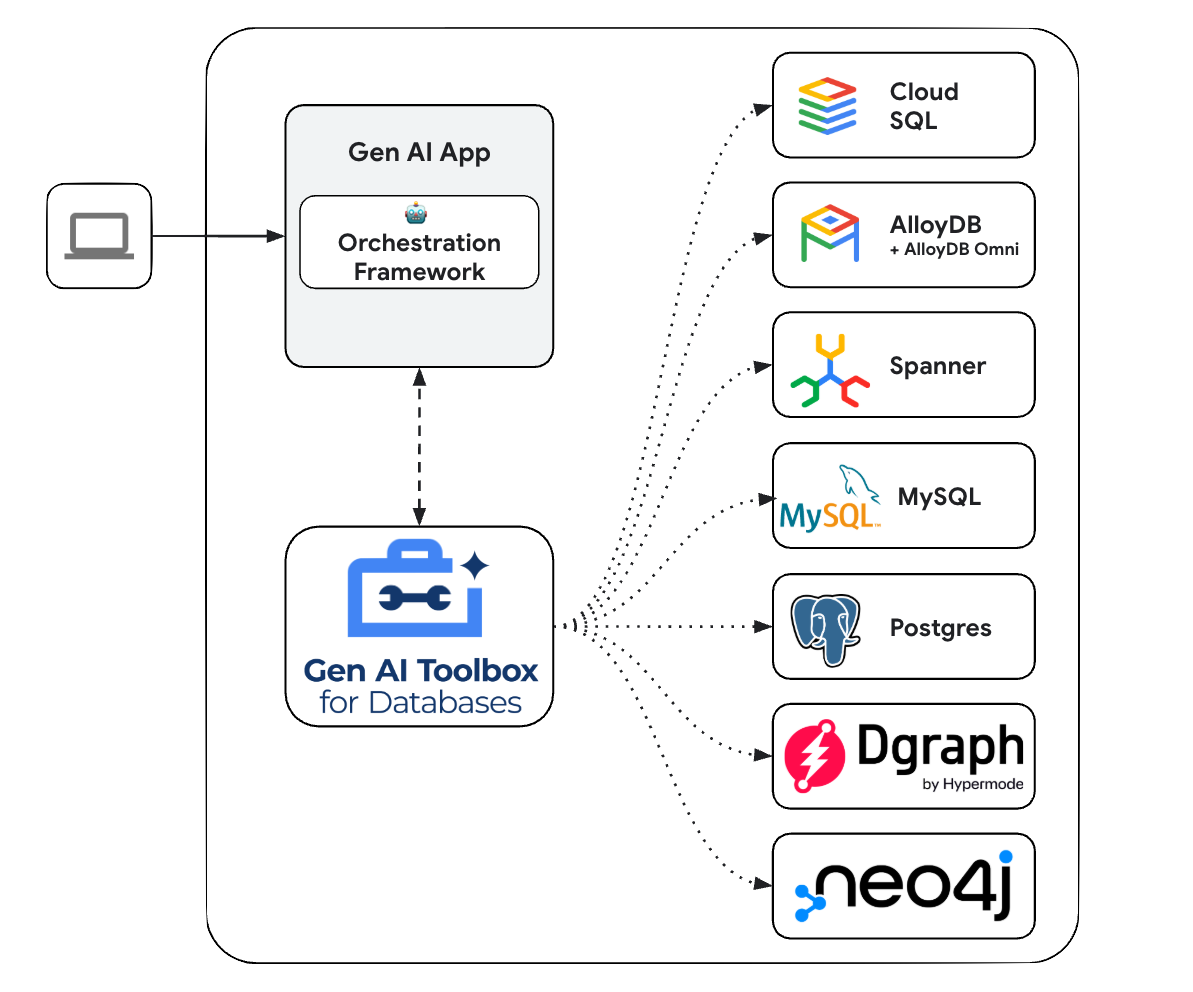
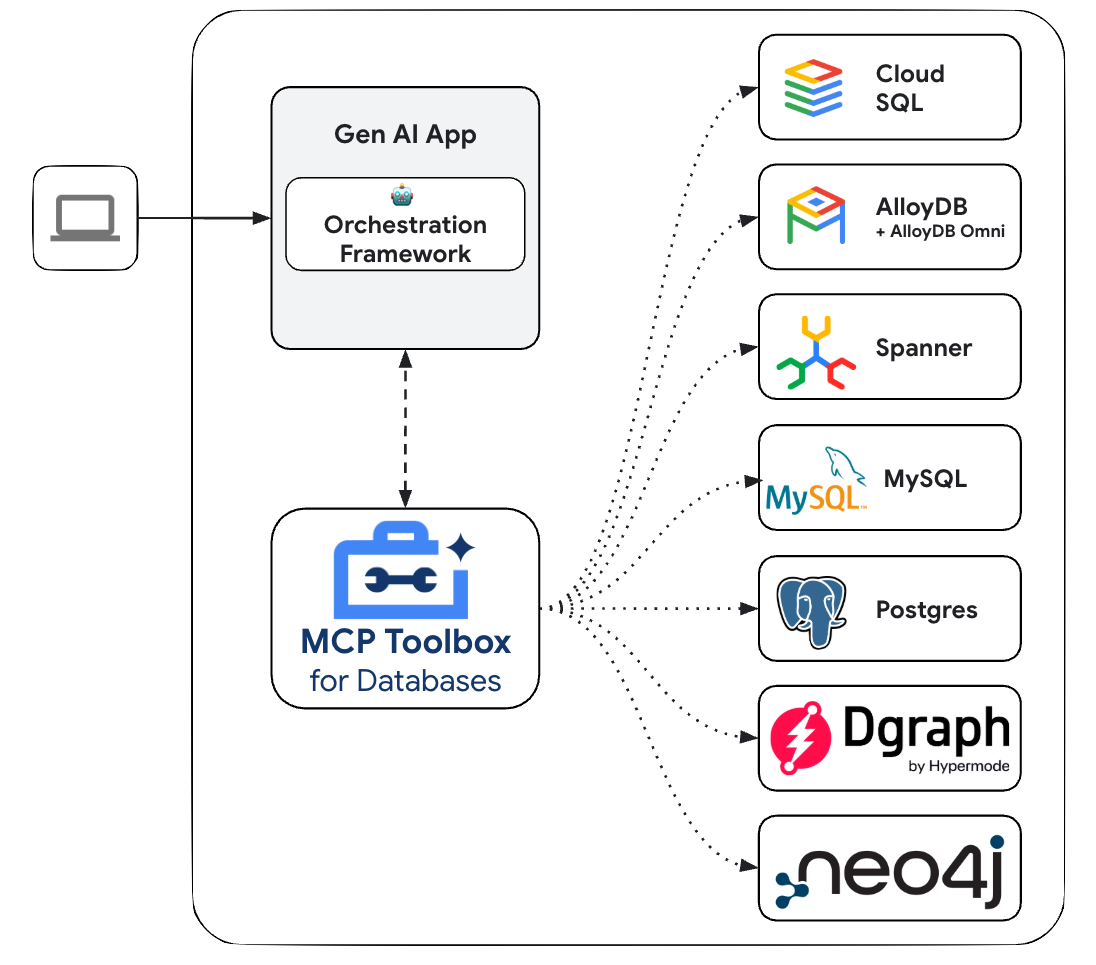
chore: rebrand as MCP Toolbox (#412)

diff --git a/README.md b/README.md
@@ -1,18 +1,24 @@
 
 ![logo](./logo.png)
-# Gen AI Toolbox for Databases
+# MCP Toolbox for Databases
 
 > [!NOTE] 
-> Gen AI Toolbox for Databases is currently in beta, and may see breaking 
+> MCP Toolbox for Databases is currently in beta, and may see breaking 
 > changes until the first stable release (v1.0).
 
-Gen AI Toolbox for Databases is an open source server that makes it easier to
-build Gen AI tools for interacting with databases. It enables you to develop
-tools easier, faster, and more securely by handling the complexities such as
-connection pooling, authentication, and more.
+MCP Toolbox for Databases is an open source MCP server for databases It was
+designed with enterprise-grade and production-quality in mind. It enables you to
+develop tools easier, faster, and more securely by handling the complexities
+such as connection pooling, authentication, and more.
 
 This README provides a brief overview. For comprehensive details, see the [full
 documentation](https://googleapis.github.io/genai-toolbox/).
+
+
+> [!NOTE] 
+> This product was originally named “Gen AI Toolbox for Databases” as
+> its initial development predated MCP, but was renamed to align with recently
+> added MCP compatibility. 
 
 <!-- TOC ignore:true -->
 ## Table of Contents
@@ -211,9 +217,8 @@ For more details on configuring different types of sources, see the
 
 ### Tools
 
-The `tools` section of your `tools.yaml` define your the actions your agent can
-take: what kind of tool it is, which source(s) it affects, what parameters it
-uses, etc.
+The `tools` section of a `tools.yaml` define the actions an agent can take: what
+kind of tool it is, which source(s) it affects, what parameters it uses, etc.
 
 ```yaml
 tools:

diff --git a/docs/en/about/faq.md b/docs/en/about/faq.md
@@ -7,7 +7,7 @@ description: Frequently asked questions about Toolbox.
 
 ## How can I deploy or run Toolbox?
 
-Gen AI Toolbox for Databases is open-source and can be ran or deployed to a
+MCP Toolbox for Databases is open-source and can be ran or deployed to a
 multitude of environments. For convenience, we release [compiled binaries and
 docker images][release-notes] (but you can always compile yourself as well!). 
 
@@ -75,7 +75,10 @@ While a large part of the Gen AI Ecosystem is predominately Python, we opted to
 use Go. We chose Go because it's still easy and simple to use, but also easier
 to write fast, efficient, and concurrent servers. Additionally, given the
 server-client architecture, we can still meet many developers where they are
-with clients in their preferred language. As Gen AI matures, we want developers to be able to use Toolbox on the serving path of mission critical applications. It's easier to build the needed robustness, performance and scalability in Go than in Python.
+with clients in their preferred language. As Gen AI matures, we want developers
+to be able to use Toolbox on the serving path of mission critical applications.
+It's easier to build the needed robustness, performance and scalability in Go
+than in Python.
 
 
 ## Is Toolbox compatible with Model Context Protocol (MCP)? 

diff --git a/docs/en/getting-started/introduction/_index.md b/docs/en/getting-started/introduction/_index.md
@@ -2,13 +2,20 @@
 title: "Introduction"
 type: docs
 weight: 1
-description: An introduction to Gen AI Toolbox for Databases.
+description: An introduction to MCP Toolbox for Databases.
 ---
 
-Gen AI Toolbox for Databases is an open source server that makes it easier to
-build Gen AI tools for interacting with databases. It enables you to develop
-tools easier, faster, and more securely by handling the complexities such as
-connection pooling, authentication, and more.
+MCP Toolbox for Databases is an open source MCP server for databases. It was
+designed with enterprise-grade and production-quality in mind. It enables you to
+develop tools easier, faster, and more securely by handling the complexities
+such as connection pooling, authentication, and more.
+
+
+{{< notice note >}} 
+This product was originally named “Gen AI Toolbox for
+Databases” as its initial development predated MCP, but was renamed to align
+with recently added MCP compatibility. 
+{{< /notice >}}
 
 ##  Why Toolbox?
 

diff --git a/docs/en/resources/sources/http.md b/docs/en/resources/sources/http.md
@@ -9,7 +9,7 @@ description: >
 
 ## About
 
-The HTTP Source allows the Gen AI Toolbox to retrieve data from arbitrary HTTP
+The HTTP Source allows Toolbox to retrieve data from arbitrary HTTP
 endpoints. This enables Generative AI applications to access data from web APIs
 and other HTTP-accessible resources.
 
